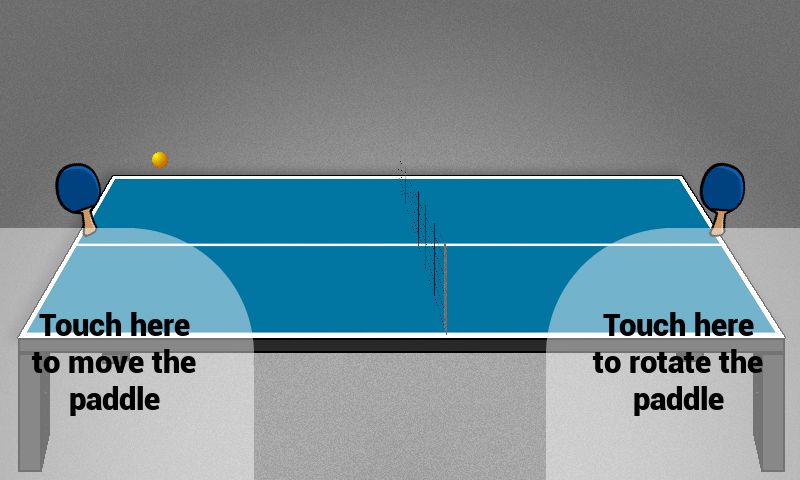
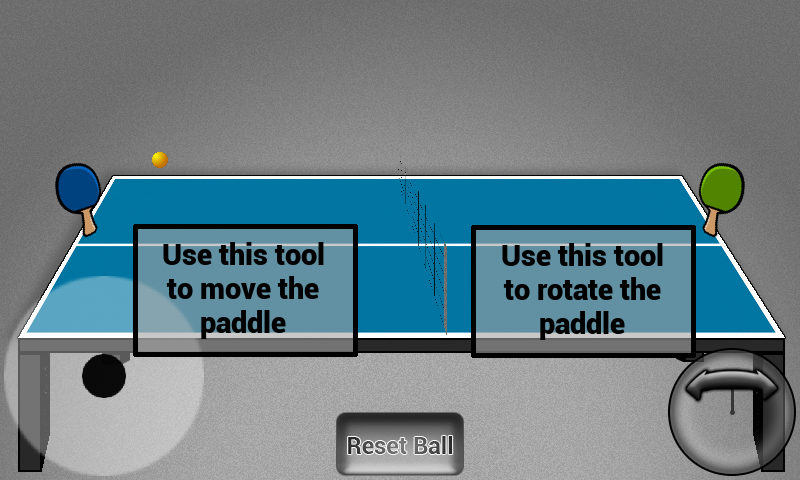
Improve right paddle sprite Improve Controls screen

diff --git a/TableTennis/src/com/funprog/tabletennis/GameScreen.java b/TableTennis/src/com/funprog/tabletennis/GameScreen.java
@@ -116,7 +116,7 @@ public class GameScreen implements Screen{
 		spriteBatch.end();
 		
 		// Draw the box2d bodies for debugging
-		debugRenderer.render(world, camera.combined);
+		//debugRenderer.render(world, camera.combined);
 	}
 	
 	@Override
@@ -139,7 +139,7 @@ public class GameScreen implements Screen{
 		leftPad = new Paddle(world, new Vector2(1, 3.5f), 
 				new Texture(Gdx.files.internal("paddle.png")));
 		rightPad = new ComputerPaddle(world, new Vector2(9, 3.5f),
-				new Texture(Gdx.files.internal("paddle.png")), 8);
+				new Texture(Gdx.files.internal("rightPaddle.png")), 8);
 		
 		resetBall = new ControlTool(new Texture(Gdx.files.internal("resetBall.png")), 
 				new Rectangle(4.2f, 0.05f, 1.6f, 0.8f));
